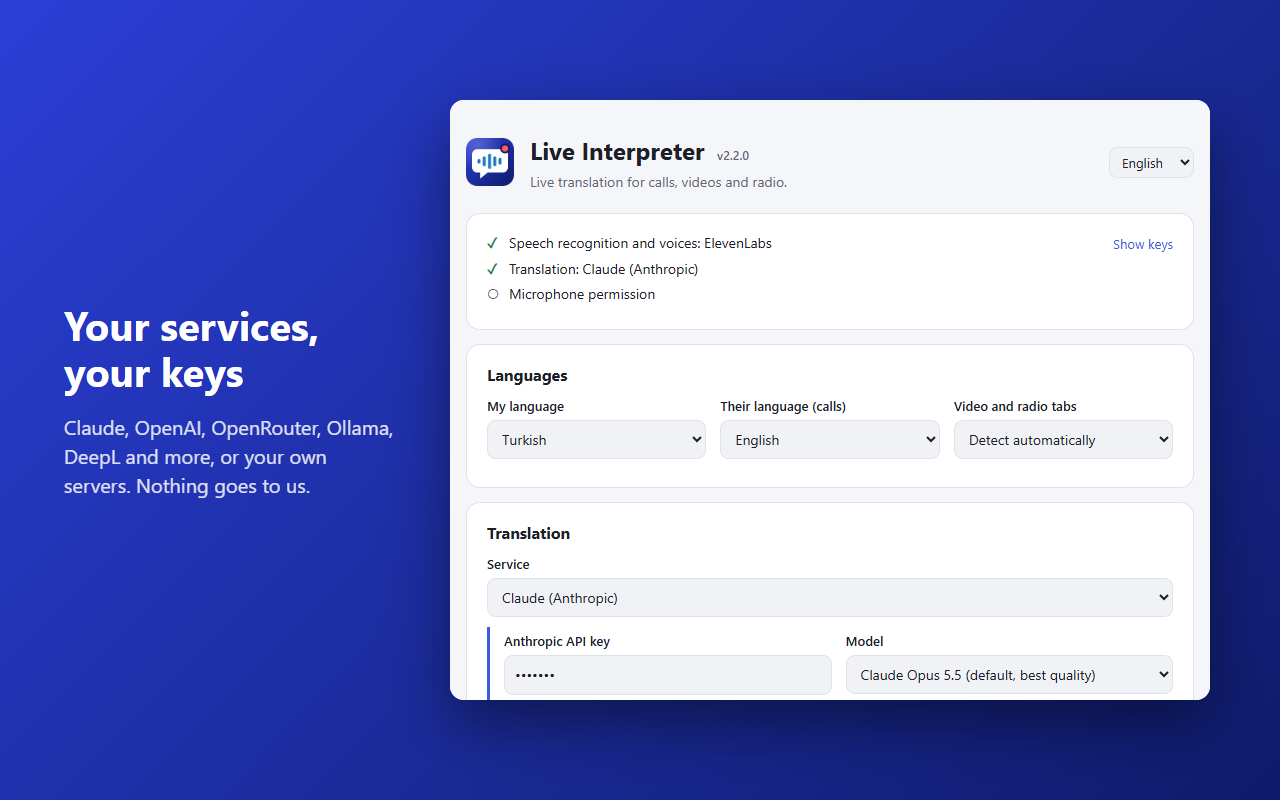
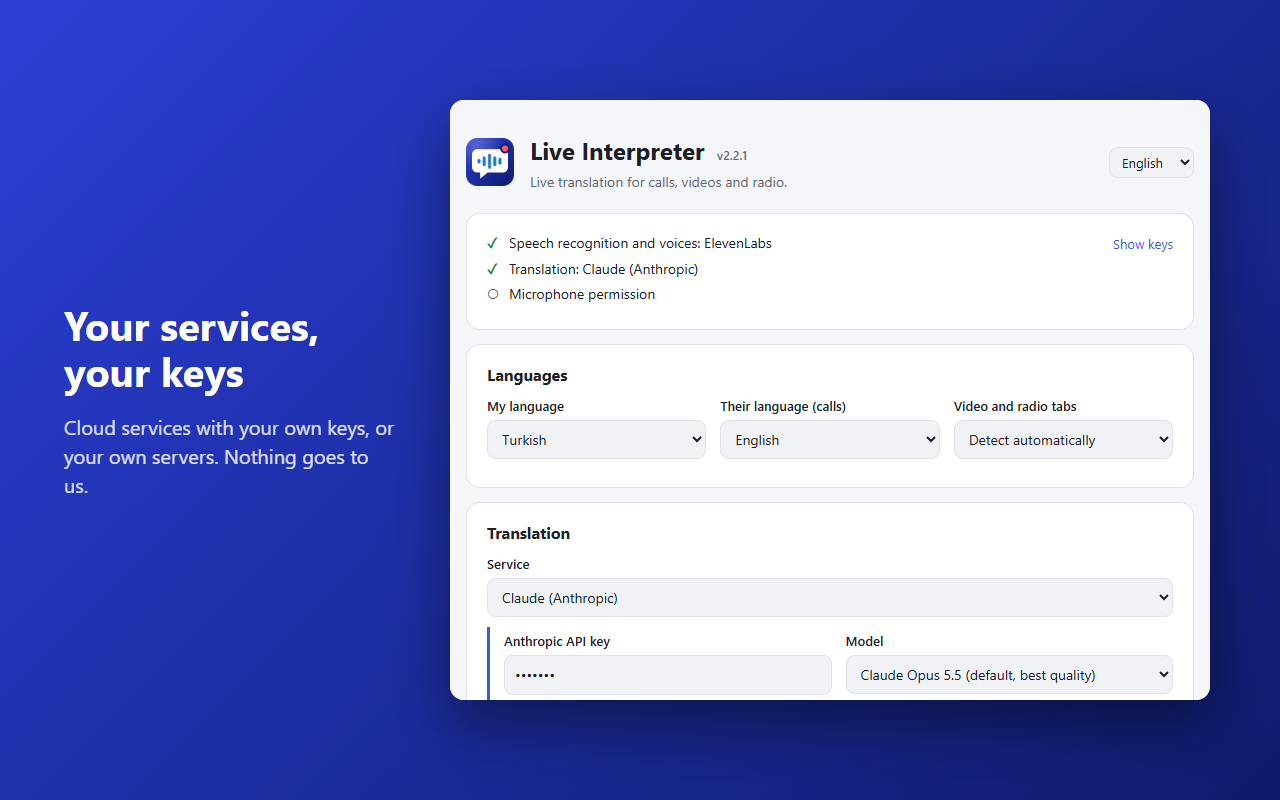
store: drop service-name lists from the listing (rejected as keyword spam)
The Chrome Web Store rejected 2.2.1 for "Yellow Argon" (keyword spam):
the descriptions listed the translation and speech services by name.
They now say what the user can choose without naming services, the
video tabs heading names only YouTube, and the settings screenshot's
caption no longer lists services.

Changed region(s): [[0.0312, 0.5312, 0.3125, 0.625]]

diff --git a/store/listing.md b/store/listing.md
@@ -2,7 +2,7 @@
 
 One section per language. In the developer dashboard, **Store listing**, pick each language and paste its **Description**. The name and the short summary come from the package (`src/_locales/*/messages.json`) and cannot be typed in the dashboard.
 
-Rules kept in these texts: no Microsoft or Google logos, no claim of being made by or endorsed by them, no prices of other services, no superlatives the store would flag ("best", "#1").
+Rules kept in these texts: no lists of service or brand names (the store rejected 2.2.1 for that as keyword spam, "Yellow Argon"), no Microsoft or Google logos, no claim of being made by or endorsed by them, no prices of other services, no superlatives ("best", "#1").
 
 ---
 
@@ -20,7 +20,7 @@ IN A CALL
 • Mute in the call and nothing is translated or sent.
 • A small panel shows both sides' sentences and their translations as they come.
 
-ON A VIDEO OR RADIO TAB (YouTube, X, online radio and more)
+ON A VIDEO OR RADIO TAB (such as YouTube)
 • Subtitles in your language over the video, also in full screen.
 • Or a spoken translation over the original, which is turned down while the translation speaks.
 • The spoken language is detected by itself.
@@ -30,9 +30,8 @@ TRANSCRIPTS
 • Save it as a text file or as subtitles (.srt) for a video player.
 
 YOUR SERVICES, YOUR KEYS
-Choose what does the work:
-• Speech: ElevenLabs, OpenAI, Groq Whisper, or your own speech server (one comes with the project, with Whisper and Piper voices for 16 languages).
-• Translation: Claude, OpenAI or a compatible server, OpenRouter, your own Ollama server, DeepL, Mistral or Groq.
+• Choose the speech recognition, voice and translation services yourself, and use them with your own API keys.
+• Or run everything on your own servers: the project includes a speech server for 16 languages and works with a local language-model server.
 With your own servers nothing leaves your computers and there is nothing to pay per minute.
 
 PRIVATE BY DESIGN
@@ -62,7 +61,7 @@ GÖRÜŞMEDE
 • Görüşmede mikrofonunu kapatınca hiçbir şey çevrilmez, gönderilmez.
 • Küçük bir panel iki tarafın cümlelerini ve çevirilerini geldikçe gösterir.
 
-VİDEO VE RADYO SEKMELERİNDE (YouTube, X, çevrimiçi radyo ve daha fazlası)
+VİDEO VE RADYO SEKMELERİNDE (örneğin YouTube)
 • Videonun üzerinde, tam ekranda da, kendi dilinde altyazı.
 • Ya da asıl sesin üzerine sesli çeviri; çeviri konuşurken asıl ses kısılır.
 • Konuşulan dil kendiliğinden algılanır.
@@ -72,9 +71,8 @@ DÖKÜMLER
 • Metin dosyası ya da video oynatıcı için altyazı (.srt) olarak kaydedebilirsin.
 
 SENİN SERVİSLERİN, SENİN ANAHTARLARIN
-İşi neyin yapacağını sen seçersin:
-• Ses: ElevenLabs, OpenAI, Groq Whisper ya da kendi ses sunucun (projeyle birlikte, Whisper ve 16 dilde Piper sesleriyle bir sunucu gelir).
-• Çeviri: Claude, OpenAI ya da uyumlu bir sunucu, OpenRouter, kendi Ollama sunucun, DeepL, Mistral ya da Groq.
+• Ses tanıma, seslendirme ve çeviri servislerini kendin seçer, kendi API anahtarlarınla kullanırsın.
+• Ya da her şeyi kendi sunucularında çalıştırırsın: proje 16 dilde bir ses sunucusuyla gelir ve yerel bir dil modeli sunucusuyla çalışır.
 Kendi sunucularınla hiçbir şey bilgisayarlarından çıkmaz, dakika başı ödeme yoktur.
 
 GİZLİLİK ÖNCELİKLİ
@@ -104,7 +102,7 @@ IM ANRUF
 • Stummgeschaltet im Anruf wird nichts übersetzt und nichts gesendet.
 • Ein kleines Fenster zeigt die Sätze beider Seiten und ihre Übersetzungen, sobald sie da sind.
 
-IN VIDEO- UND RADIO-TABS (YouTube, X, Webradio und mehr)
+IN VIDEO- UND RADIO-TABS (zum Beispiel YouTube)
 • Untertitel in Ihrer Sprache über dem Video, auch im Vollbild.
 • Oder eine gesprochene Übersetzung über dem Original, das leiser wird, solange die Übersetzung spricht.
 • Die gesprochene Sprache wird automatisch erkannt.
@@ -114,9 +112,8 @@ TRANSKRIPTE
 • Als Textdatei oder als Untertitel (.srt) für einen Videoplayer speichern.
 
 IHRE DIENSTE, IHRE SCHLÜSSEL
-Sie wählen, was die Arbeit macht:
-• Sprache: ElevenLabs, OpenAI, Groq Whisper oder Ihr eigener Sprachserver (einer liegt dem Projekt bei, mit Whisper und Piper-Stimmen für 16 Sprachen).
-• Übersetzung: Claude, OpenAI oder ein kompatibler Server, OpenRouter, Ihr eigener Ollama-Server, DeepL, Mistral oder Groq.
+• Sie wählen die Dienste für Spracherkennung, Stimme und Übersetzung selbst und nutzen sie mit Ihren eigenen API-Schlüsseln.
+• Oder Sie betreiben alles auf eigenen Servern: Das Projekt enthält einen Sprachserver für 16 Sprachen und arbeitet mit einem lokalen Sprachmodell-Server.
 Mit eigenen Servern verlässt nichts Ihre Rechner, und es gibt keine Kosten pro Minute.
 
 DATENSCHUTZ VON ANFANG AN
@@ -146,7 +143,7 @@ EN UNA LLAMADA
 • Si silencias el micrófono en la llamada, no se traduce ni se envía nada.
 • Un pequeño panel muestra las frases de ambos lados y sus traducciones a medida que llegan.
 
-EN PESTAÑAS DE VÍDEO O RADIO (YouTube, X, radio en línea y más)
+EN PESTAÑAS DE VÍDEO O RADIO (por ejemplo, YouTube)
 • Subtítulos en tu idioma sobre el vídeo, también a pantalla completa.
 • O una traducción hablada sobre el original, que baja de volumen mientras habla la traducción.
 • El idioma hablado se detecta solo.
@@ -156,9 +153,8 @@ TRANSCRIPCIONES
 • Guárdala como archivo de texto o como subtítulos (.srt) para un reproductor de vídeo.
 
 TUS SERVICIOS, TUS CLAVES
-Tú eliges qué hace el trabajo:
-• Voz: ElevenLabs, OpenAI, Groq Whisper o tu propio servidor de voz (el proyecto incluye uno, con Whisper y voces Piper para 16 idiomas).
-• Traducción: Claude, OpenAI o un servidor compatible, OpenRouter, tu propio servidor Ollama, DeepL, Mistral o Groq.
+• Eliges tú los servicios de reconocimiento de voz, de voz y de traducción, y los usas con tus propias claves de API.
+• O lo ejecutas todo en tus propios servidores: el proyecto incluye un servidor de voz para 16 idiomas y funciona con un servidor local de modelos de lenguaje.
 Con tus propios servidores nada sale de tus equipos y no hay que pagar por minuto.
 
 PRIVACIDAD DESDE EL DISEÑO
@@ -188,7 +184,7 @@ Live Interpreter 在网页版 Microsoft Teams 和 Google Meet 通话中实时双
 • 在通话中静音时，不会翻译也不会发送任何内容。
 • 小面板实时显示双方的句子及其翻译。
 
-视频或电台标签页（YouTube、X、网络电台等）
+视频或电台标签页（例如 YouTube）
 • 在视频上显示你的语言的字幕，全屏时也可以。
 • 或在原声之上播放语音翻译，翻译说话时原声会调低。
 • 自动识别所说的语言。
@@ -198,9 +194,8 @@ Live Interpreter 在网页版 Microsoft Teams 和 Google Meet 通话中实时双
 • 可以保存为文本文件，或保存为视频播放器使用的字幕（.srt）。
 
 你的服务，你的密钥
-由你选择由谁来完成工作：
-• 语音：ElevenLabs、OpenAI、Groq Whisper，或你自己的语音服务器（项目自带一个，包含 Whisper 和 16 种语言的 Piper 声音）。
-• 翻译：Claude、OpenAI 或兼容服务器、OpenRouter、你自己的 Ollama 服务器、DeepL、Mistral 或 Groq。
+• 语音识别、语音合成和翻译服务由你自己选择，并使用你自己的 API 密钥。
+• 或者全部运行在你自己的服务器上：项目自带支持 16 种语言的语音服务器，并可与本地语言模型服务器配合使用。
 使用自己的服务器时，任何内容都不会离开你的电脑，也无需按分钟付费。
 
 注重隐私
